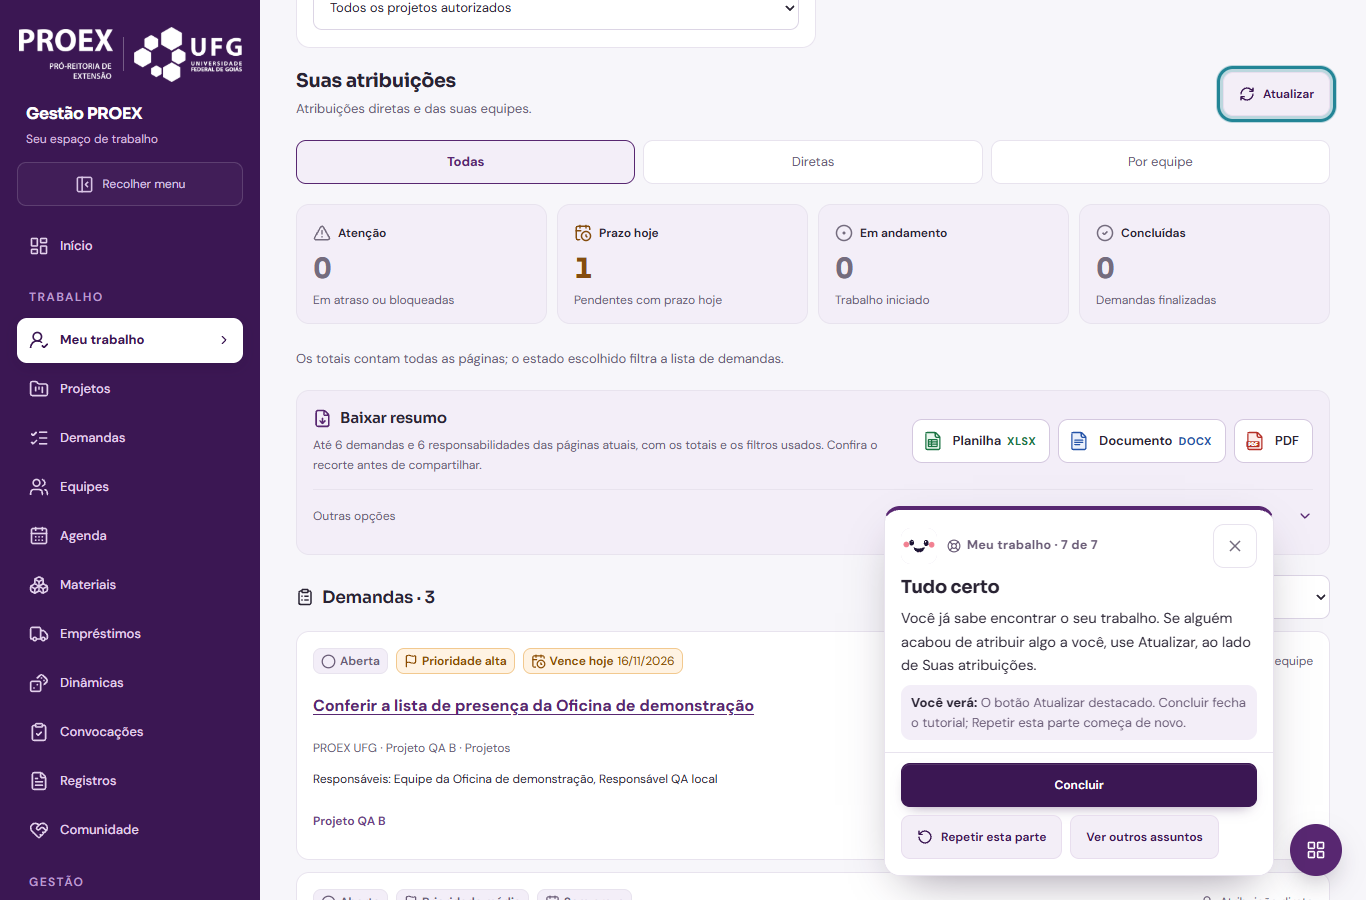
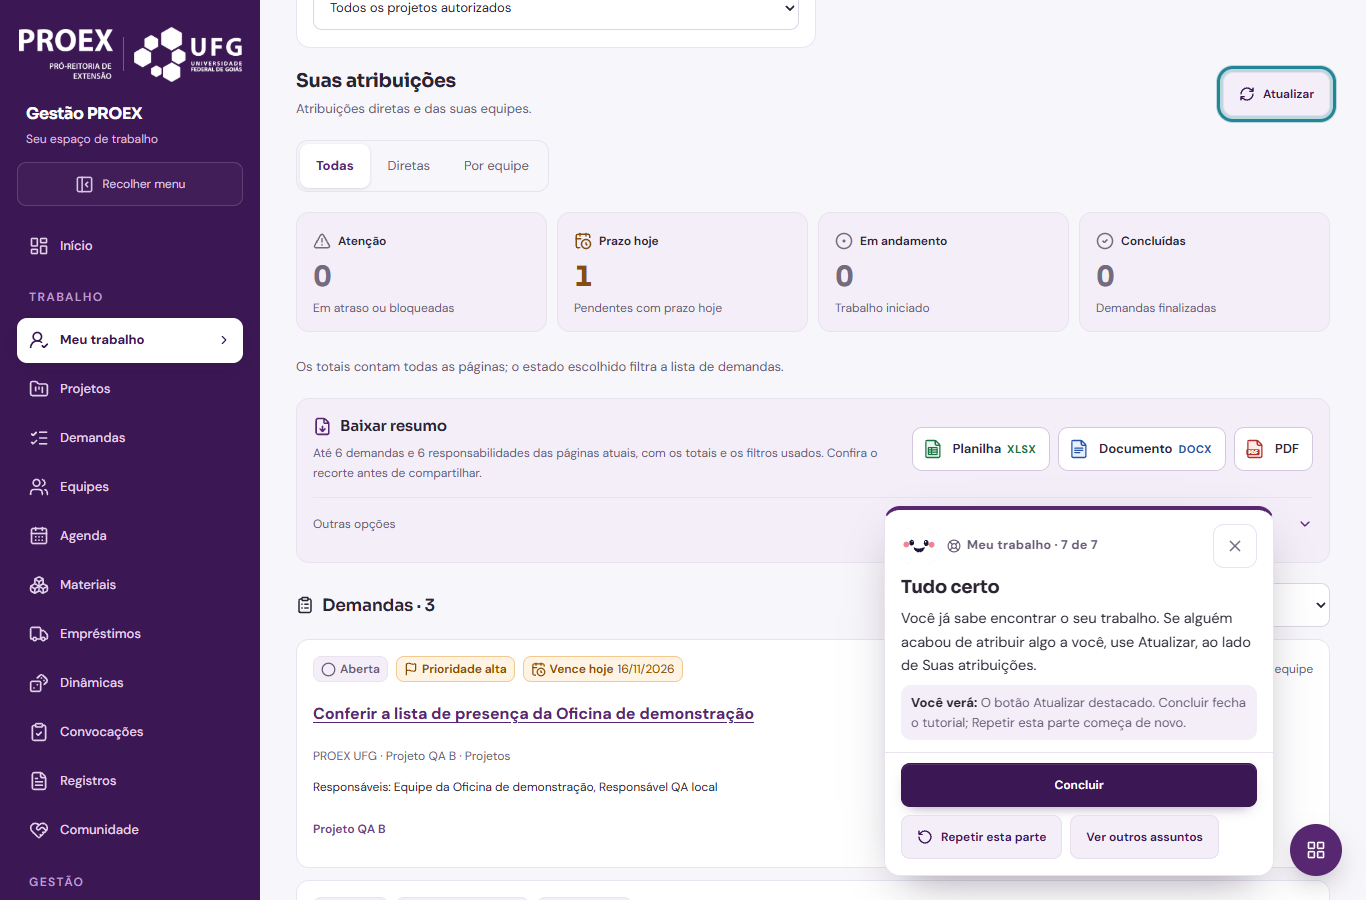
docs(portal): evidências finais do tutorial Meu trabalho

diff --git a/docs/evidencias/2026-11-16-tutorial-meu-trabalho/verificacao.md b/docs/evidencias/2026-11-16-tutorial-meu-trabalho/verificacao.md
@@ -1,0 +1,7 @@
+# Tutorial Meu trabalho · verificação local (2026-11-16)
+
+- QA local descartável (127.0.0.1, dados sintéticos): uma equipe, três demandas (Direta e pela equipe com prazo hoje; Atribuição direta; Pela sua equipe) e uma responsabilidade para a conta de QA.
+- Contas: responsável (completa), gestão, operação (restrita) e materiais; 1366 claro e escuro, 390 claro e escuro, 360×640 claro.
+- Os 7 passos encontram o controle certo; Ir para Meu trabalho leva ao módulo e devolve o foco ao cartão; Concluir grava a conclusão; Escape fecha a lista; sem erros de página e sem rolagem lateral.
+- Crítica independente: 8,4 → 8,8 → **9,3 aprovada**, sem P0, P1 ou P2.
+- Não verificado: leitor de tela real, aparelho físico, zoom de 400%, conta sem nenhum projeto no navegador (coberta por teste de servidor).
